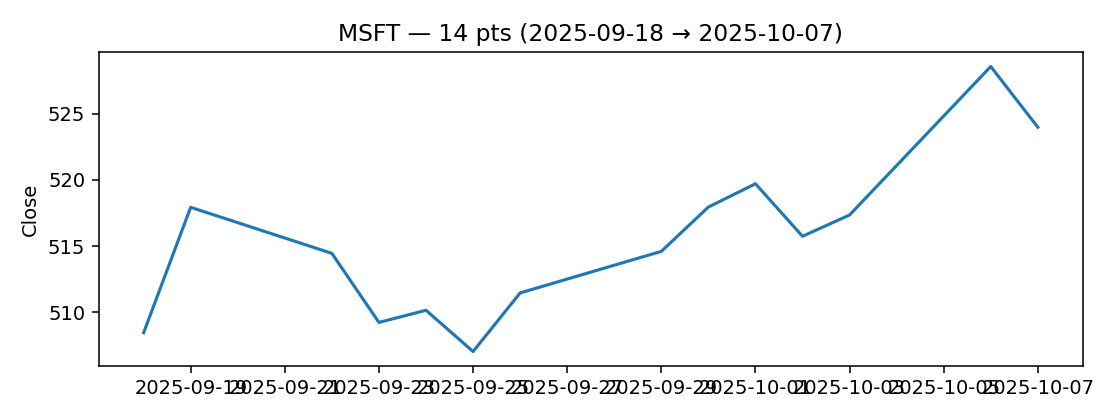
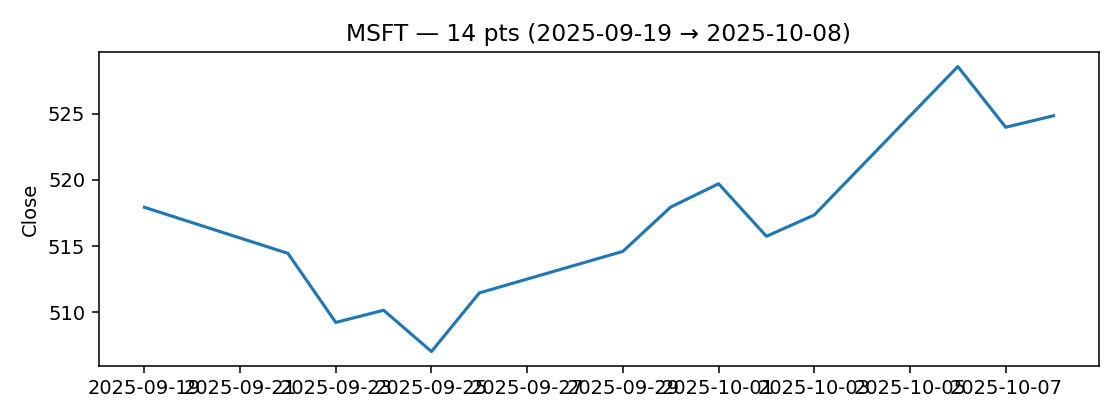
chore: update daily report 2025-10-09 08:29

diff --git a/docs/daily_report.html b/docs/daily_report.html
@@ -108,7 +108,7 @@
   <header>
     <div>
       <h1>Daily Study & News Companion</h1>
-      <div class="sub">2025-10-08 08:12 · TZ: CST</div>
+      <div class="sub">2025-10-09 08:14 · TZ: CST</div>
     </div>
     <button class="btn" id="themeBtn">🌓 Tema</button>
   </header>
@@ -150,11 +150,11 @@
           </div>
           <div class="mkt-body">
             <div class="metrics-row">
-          <div class="kv"><span>Last</span><b>221.78</b></div>
-          <div class="kv"><span>d/d</span><b class="down">-4.09%</b></div>
+          <div class="kv"><span>Last</span><b>225.22</b></div>
+          <div class="kv"><span>d/d</span><b class="down">-2.70%</b></div>
           <div class="kv"><span>Mín</span><b>218.15</b></div>
           <div class="kv"><span>Máx</span><b>231.48</b></div>
-          <div class="kv"><span>σ</span><b>4.16</b></div>
+          <div class="kv"><span>σ</span><b>3.50</b></div>
         </div>
             <div class="chart"><img src="charts/AMZN_close.png" alt="AMZN chart" loading="lazy"/></div>
           </div>
@@ -167,11 +167,11 @@
           </div>
           <div class="mkt-body">
             <div class="metrics-row">
-          <div class="kv"><span>Last</span><b>523.98</b></div>
-          <div class="kv"><span>d/d</span><b class="up">3.05%</b></div>
+          <div class="kv"><span>Last</span><b>524.85</b></div>
+          <div class="kv"><span>d/d</span><b class="up">1.34%</b></div>
           <div class="kv"><span>Mín</span><b>507.03</b></div>
           <div class="kv"><span>Máx</span><b>528.57</b></div>
-          <div class="kv"><span>σ</span><b>5.88</b></div>
+          <div class="kv"><span>σ</span><b>5.99</b></div>
         </div>
             <div class="chart"><img src="charts/MSFT_close.png" alt="MSFT chart" loading="lazy"/></div>
           </div>
@@ -184,10 +184,10 @@
           </div>
           <div class="mkt-body">
             <div class="metrics-row">
-          <div class="kv"><span>Last</span><b>185.04</b></div>
-          <div class="kv"><span>d/d</span><b class="up">4.99%</b></div>
-          <div class="kv"><span>Mín</span><b>176.24</b></div>
-          <div class="kv"><span>Máx</span><b>188.89</b></div>
+          <div class="kv"><span>Last</span><b>189.11</b></div>
+          <div class="kv"><span>d/d</span><b class="up">7.04%</b></div>
+          <div class="kv"><span>Mín</span><b>176.67</b></div>
+          <div class="kv"><span>Máx</span><b>189.11</b></div>
           <div class="kv"><span>σ</span><b>4.51</b></div>
         </div>
             <div class="chart"><img src="charts/NVDA_close.png" alt="NVDA chart" loading="lazy"/></div>
@@ -201,11 +201,11 @@
           </div>
           <div class="mkt-body">
             <div class="metrics-row">
-          <div class="kv"><span>Last</span><b>433.09</b></div>
-          <div class="kv"><span>d/d</span><b class="up">3.90%</b></div>
-          <div class="kv"><span>Mín</span><b>416.85</b></div>
+          <div class="kv"><span>Last</span><b>438.69</b></div>
+          <div class="kv"><span>d/d</span><b class="up">2.96%</b></div>
+          <div class="kv"><span>Mín</span><b>423.39</b></div>
           <div class="kv"><span>Máx</span><b>459.46</b></div>
-          <div class="kv"><span>σ</span><b>11.39</b></div>
+          <div class="kv"><span>σ</span><b>10.03</b></div>
         </div>
             <div class="chart"><img src="charts/TSLA_close.png" alt="TSLA chart" loading="lazy"/></div>
           </div>
@@ -218,11 +218,11 @@
           </div>
           <div class="mkt-body">
             <div class="metrics-row">
-          <div class="kv"><span>Last</span><b>669.12</b></div>
-          <div class="kv"><span>d/d</span><b class="up">1.04%</b></div>
+          <div class="kv"><span>Last</span><b>673.11</b></div>
+          <div class="kv"><span>d/d</span><b class="up">1.42%</b></div>
           <div class="kv"><span>Mín</span><b>658.05</b></div>
-          <div class="kv"><span>Máx</span><b>671.61</b></div>
-          <div class="kv"><span>σ</span><b>3.77</b></div>
+          <div class="kv"><span>Máx</span><b>673.11</b></div>
+          <div class="kv"><span>σ</span><b>4.16</b></div>
         </div>
             <div class="chart"><img src="charts/^GSPC_close.png" alt="^GSPC chart" loading="lazy"/></div>
           </div>
@@ -250,38 +250,38 @@
             <ul class="news-list">
               <li class="news-item" data-topic="AI">
                 <span class="dot"></span>
-                <a href="https://www.bloomberg.com/news/videos/2025-10-08/musk-s-xai-taps-nvidia-and-others-to-raise-20-billion-video" target="_blank" rel="noreferrer">Musk's xAI Taps Nvidia and Others to Raise $20 Billion</a>
-                <div class="meta">2025-10-08 13:59 · <span class="src">www.bloomberg.com</span></div>
+                <a href="https://www.bloomberg.com/news/articles/2025-10-09/google-cloud-battles-microsoft-openai-for-workplace-ai" target="_blank" rel="noreferrer">Google Cloud Battles Microsoft, OpenAI for Workplace AI</a>
+                <div class="meta">2025-10-09 12:00 · <span class="src">Davey Alba, Carmen Arroyo</span></div>
               </li>
             
               <li class="news-item" data-topic="AI">
                 <span class="dot"></span>
-                <a href="https://www.bloomberg.com/news/videos/2025-10-08/the-pulse-10-8-video" target="_blank" rel="noreferrer">Elon Musk’s xAI Plans $20 Billion Raise Backed by Nvidia for AI Project: The Pulse 10/08</a>
-                <div class="meta">2025-10-08 12:15 · <span class="src">www.bloomberg.com</span></div>
+                <a href="https://www.bloomberg.com/news/newsletters/2025-10-09/chatgpt-s-new-app-integrations-ask-a-lot-of-users" target="_blank" rel="noreferrer">ChatGPT’s New App Integrations Ask a Lot of Users</a>
+                <div class="meta">2025-10-09 11:02 · <span class="src">Natalie Lung</span></div>
               </li>
             
               <li class="news-item" data-topic="AI">
                 <span class="dot"></span>
-                <a href="https://www.bloomberg.com/news/newsletters/2025-10-08/amd-s-su-joins-the-party-with-openai-for-better-or-worse" target="_blank" rel="noreferrer">AMD’s Su Joins the Party With OpenAI for Better or Worse</a>
-                <div class="meta">2025-10-08 11:02 · <span class="src">Ian King</span></div>
+                <a href="https://www.bloomberg.com/news/articles/2025-10-09/keith-rabois-bets-on-legal-ai-tech-with-startup-spellbook" target="_blank" rel="noreferrer">Keith Rabois Bets on Legal AI Tech With Startup Spellbook</a>
+                <div class="meta">2025-10-09 11:00 · <span class="src">Lizette Chapman</span></div>
               </li>
             
               <li class="news-item" data-topic="AI">
                 <span class="dot"></span>
-                <a href="https://www.bloomberg.com/news/articles/2025-10-07/musk-s-xai-nears-20-billion-capital-raise-tied-to-nvidia-chips" target="_blank" rel="noreferrer">xAI to Raise $20 Billion After Nvidia and Others Boost Round</a>
-                <div class="meta">2025-10-07 23:11 · <span class="src">Carmen Arroyo, Edward Ludlow</span></div>
+                <a href="https://www.bloomberg.com/news/articles/2025-10-09/why-experts-are-warning-the-ai-boom-could-be-a-bubble" target="_blank" rel="noreferrer">‘I Believe It’s a Bubble’: What Some Smart People Are Saying About AI</a>
+                <div class="meta">2025-10-09 09:00 · <span class="src">Christopher Beam</span></div>
               </li>
             
               <li class="news-item" data-topic="AI">
                 <span class="dot"></span>
-                <a href="https://www.bloomberg.com/news/articles/2025-10-07/careerbuilder-job-search-site-toppled-by-ai-wraps-liquidation" target="_blank" rel="noreferrer">CareerBuilder, Job Website Toppled by AI, Wraps Liquidation</a>
-                <div class="meta">2025-10-07 20:04 · <span class="src">Steven Church</span></div>
+                <a href="https://www.bloomberg.com/news/articles/2025-10-09/ai-agent-startup-n8n-nets-2-5-billion-valuation-with-backing-from-nvidia" target="_blank" rel="noreferrer">AI Agent Startup N8n Nets $2.5 Billion Valuation With Backing From Accel, Nvidia</a>
+                <div class="meta">2025-10-09 06:06 · <span class="src">Yazhou Sun</span></div>
               </li>
             
               <li class="news-item" data-topic="AI">
                 <span class="dot"></span>
-                <a href="https://www.bloomberg.com/news/features/2025-10-07/openai-s-nvidia-amd-deals-boost-1-trillion-ai-boom-with-circular-deals" target="_blank" rel="noreferrer">OpenAI, Nvidia Fuel $1 Trillion AI Market With Web of Circular Deals</a>
-                <div class="meta">2025-10-07 20:00 · <span class="src">Emily Forgash, Agnee Ghosh</span></div>
+                <a href="https://www.bloomberg.com/news/articles/2025-10-08/china-markets-reopen-to-show-if-ai-buzz-outshines-soft-spending" target="_blank" rel="noreferrer">China Stocks Rise Post-Break as AI, Gold Outshine Tepid Spending</a>
+                <div class="meta">2025-10-08 23:00 · <span class="src">Sangmi Cha, Iris Ouyang</span></div>
               </li>
             </ul>
           </div>
@@ -291,38 +291,38 @@
             <ul class="news-list">
               <li class="news-item" data-topic="Fintech">
                 <span class="dot"></span>
-                <a href="https://www.bloomberg.com/news/videos/2025-10-08/fed-s-barr-sees-community-bank-threat-in-big-bank-deregulation" target="_blank" rel="noreferrer">Barr Sees Community Bank Threat in Big Bank Deregulation</a>
-                <div class="meta">2025-10-08 14:08 · <span class="src">www.bloomberg.com</span></div>
+                <a href="https://www.bloomberg.com/news/articles/2025-10-09/ecb-s-escriva-warns-of-unprecedented-level-of-economic-uncertainty" target="_blank" rel="noreferrer">ECB’s Escrivá Warns of Unprecedented Level of Economic Uncertainty</a>
+                <div class="meta">2025-10-09 13:28 · <span class="src">Daniel Basteiro</span></div>
               </li>
             
               <li class="news-item" data-topic="Fintech">
                 <span class="dot"></span>
-                <a href="https://www.bloomberg.com/news/articles/2025-10-08/barr-sees-big-bank-deregulation-as-threat-to-community-banks" target="_blank" rel="noreferrer">Barr Sees Big Bank Deregulation as Threat to Community Banks</a>
-                <div class="meta">2025-10-08 13:33 · <span class="src">Katanga Johnson</span></div>
+                <a href="https://www.bloomberg.com/news/articles/2025-10-09/jpmorgan-seeks-to-accelerate-push-into-payment-services-in-india" target="_blank" rel="noreferrer">JPMorgan Seeks to Accelerate Push Into Payment Services in India</a>
+                <div class="meta">2025-10-09 12:24 · <span class="src">Siddhi Nayak, Saikat Das</span></div>
               </li>
             
               <li class="news-item" data-topic="Fintech">
                 <span class="dot"></span>
-                <a href="https://www.bloomberg.com/news/articles/2025-10-08/greenland-pm-asks-eu-help-to-secure-digital-links-block-threats" target="_blank" rel="noreferrer">Greenland Prime Minister Asks EU Help to Secure Digital Links, Block Threats</a>
-                <div class="meta">2025-10-08 12:41 · <span class="src">Sara Sjolin</span></div>
+                <a href="https://www.bloomberg.com/news/articles/2025-10-09/nigerian-banks-pivot-to-lending-as-local-bond-yields-decline" target="_blank" rel="noreferrer">Nigerian Banks Pivot to Lending as Local Bond Yields Decline</a>
+                <div class="meta">2025-10-09 12:11 · <span class="src">Emele Onu</span></div>
               </li>
             
               <li class="news-item" data-topic="Fintech">
                 <span class="dot"></span>
-                <a href="https://www.ft.com/content/4080ecae-0654-4597-9596-025c373874c3" target="_blank" rel="noreferrer">SoftBank to buy ABB’s robotics unit in $5.4bn deal</a>
-                <div class="meta">2025-10-08 07:43 · <span class="src">www.ft.com</span></div>
+                <a href="https://www.bloomberg.com/news/articles/2025-10-09/ecb-officials-decided-against-protective-cut-on-inflation-risks" target="_blank" rel="noreferrer">ECB Officials Decided Against Protective Cut on Inflation Risks</a>
+                <div class="meta">2025-10-09 11:55 · <span class="src">Jana Randow, Mark Schroers, Alexander Weber</span></div>
               </li>
             
               <li class="news-item" data-topic="Fintech">
                 <span class="dot"></span>
-                <a href="https://www.ft.com/content/47331a3b-a104-4924-96b7-3af3b84288eb" target="_blank" rel="noreferrer">‘Big data’ helps HMRC increase UK tax haul by £4.6bn</a>
-                <div class="meta">2025-10-07 04:00 · <span class="src">www.ft.com</span></div>
+                <a href="https://www.bloomberg.com/news/articles/2025-10-09/romanian-central-banker-sees-stable-rates-at-least-through-march" target="_blank" rel="noreferrer">Romanian Central Banker Sees Stable Rates at Least Through March</a>
+                <div class="meta">2025-10-09 11:34 · <span class="src">Andra Timu, Irina Vilcu</span></div>
               </li>
             
               <li class="news-item" data-topic="Fintech">
                 <span class="dot"></span>
-                <a href="https://www.ft.com/content/79b53db3-3411-454c-814d-d86f3c800abd" target="_blank" rel="noreferrer">Musk names former Morgan Stanley banker as new xAI CFO</a>
-                <div class="meta">2025-10-07 03:31 · <span class="src">www.ft.com</span></div>
+                <a href="https://www.bloomberg.com/news/videos/2025-10-09/the-opening-trade-10-9-video" target="_blank" rel="noreferrer">HSBC’s $14B Hong Kong Bet, Israel & Hamas Strike Hostage Deal | The Opening Trade 10/9</a>
+                <div class="meta">2025-10-09 11:24 · <span class="src">www.bloomberg.com</span></div>
               </li>
             </ul>
           </div>
@@ -332,38 +332,38 @@
             <ul class="news-list">
               <li class="news-item" data-topic="General">
                 <span class="dot"></span>
-                <a href="https://www.bloomberg.com/news/articles/2025-10-08/soybean-harvest-kicks-off-in-us-as-farmer-challenges-mount" target="_blank" rel="noreferrer">US Soy Harvest Begins With Farmers in ‘Fight to Survive’</a>
-                <div class="meta">2025-10-08 14:01 · <span class="src">Michael Hirtzer, Erin Ailworth</span></div>
+                <a href="https://www.bloomberg.com/news/articles/2025-10-09/saudi-wealth-fund-said-to-slow-pace-of-work-on-local-share-sales" target="_blank" rel="noreferrer">Saudi Wealth Fund Said to Slow Pace of Work on Local Share Sales</a>
+                <div class="meta">2025-10-09 13:44 · <span class="src">Laura Gardner Cuesta, Christine Burke</span></div>
               </li>
             
               <li class="news-item" data-topic="General">
                 <span class="dot"></span>
-                <a href="https://www.bloomberg.com/news/articles/2025-10-08/whale-rock-rebounds-from-20-first-quarter-loss-as-stocks-rally" target="_blank" rel="noreferrer">Whale Rock Rebounds From 20% First-Quarter Loss as Stocks Rally</a>
-                <div class="meta">2025-10-08 13:57 · <span class="src">Hema Parmar</span></div>
+                <a href="https://www.bloomberg.com/news/articles/2025-10-09/netflix-expected-a-kpop-rally-tariffs-musk-got-in-the-way" target="_blank" rel="noreferrer">Netflix Expected a ‘KPop’ Rally. Elon Musk and Tariffs Got In the Way</a>
+                <div class="meta">2025-10-09 11:01 · <span class="src">Ryan Vlastelica</span></div>
               </li>
             
               <li class="news-item" data-topic="General">
                 <span class="dot"></span>
-                <a href="https://www.bloomberg.com/news/articles/2025-10-08/cenovus-sweetens-offer-for-meg-in-canada-oil-takeover-battle" target="_blank" rel="noreferrer">Cenovus Sweetens Offer for MEG in Canada Oil Takeover Battle</a>
-                <div class="meta">2025-10-08 11:06 · <span class="src">Derek Decloet, Robert Tuttle</span></div>
+                <a href="https://www.bloomberg.com/news/articles/2025-10-09/lagging-homebuilder-stocks-xhb-face-new-worry-from-bill-pulte-s-ire" target="_blank" rel="noreferrer">Lagging Builder Stocks Face New Worry From Bill Pulte’s Ire</a>
+                <div class="meta">2025-10-09 11:00 · <span class="src">Felice Maranz</span></div>
               </li>
             
               <li class="news-item" data-topic="General">
                 <span class="dot"></span>
-                <a href="https://www.bloomberg.com/news/articles/2025-10-08/dollar-tiptoes-toward-two-month-high-as-global-fiscal-woes-mount" target="_blank" rel="noreferrer">Dollar Closes in on Two-Month High as Global Fiscal Woes Mount</a>
-                <div class="meta">2025-10-08 04:56 · <span class="src">David Finnerty, Masaki Kondo</span></div>
+                <a href="https://www.bloomberg.com/news/articles/2025-10-09/prosthetics-maker-ottobock-s-shares-rise-11-in-frankfurt-debut" target="_blank" rel="noreferrer">Ottobock Shares Rise After Biggest German IPO of 2025</a>
+                <div class="meta">2025-10-09 07:28 · <span class="src">Pablo Mayo Cerqueiro, Marilen Martin, Arno Schuetze</span></div>
               </li>
             
               <li class="news-item" data-topic="General">
                 <span class="dot"></span>
-                <a href="https://www.bloomberg.com/news/articles/2025-10-08/gold-soars-past-4-000-as-us-shutdown-adds-fuel-to-record-rally" target="_blank" rel="noreferrer">Gold Tops $4,000 for First Time Fueled by US Shutdown</a>
-                <div class="meta">2025-10-08 01:59 · <span class="src">Jack Ryan, Yvonne Yue Li, Sybilla Gross</span></div>
+                <a href="https://www.bloomberg.com/news/articles/2025-10-08/stock-market-today-dow-s-p-live-updates" target="_blank" rel="noreferrer">Wall Street Rally Stalls Amid Signs of Overheating: Markets Wrap</a>
+                <div class="meta">2025-10-08 21:58 · <span class="src">Rita Nazareth</span></div>
               </li>
             
               <li class="news-item" data-topic="General">
                 <span class="dot"></span>
-                <a href="https://www.bloomberg.com/news/videos/2025-10-07/pebina-keyera-altagas-on-canada-s-energy-future-video" target="_blank" rel="noreferrer">Pembina, Keyera, AltaGas on Canada's Energy Future</a>
-                <div class="meta">2025-10-07 14:57 · <span class="src">www.bloomberg.com</span></div>
+                <a href="https://www.bloomberg.com/news/articles/2025-10-08/winklevoss-backed-crypto-company-eyes-expansion-in-brazil" target="_blank" rel="noreferrer">Winklevoss-Backed Crypto Company Eyes Expansion in Brazil</a>
+                <div class="meta">2025-10-08 19:20 · <span class="src">Leda Alvim</span></div>
               </li>
             </ul>
           </div>
@@ -373,38 +373,38 @@
             <ul class="news-list">
               <li class="news-item" data-topic="Machine Learning">
                 <span class="dot"></span>
-                <a href="https://www.bloomberg.com/news/articles/2025-10-08/tap-ceo-sees-airline-joining-major-aviation-group-soon" target="_blank" rel="noreferrer">TAP CEO Sees Airline Joining Major Aviation Group ‘Soon’</a>
-                <div class="meta">2025-10-08 13:01 · <span class="src">Kate Duffy, Henrique Almeida</span></div>
+                <a href="https://www.bloomberg.com/news/articles/2025-10-09/s-p-500-fluctuates-as-traders-weigh-earnings-from-delta-pepsico" target="_blank" rel="noreferrer">S&amp;P 500 Fluctuates as Traders Weigh Earnings From Delta, PepsiCo</a>
+                <div class="meta">2025-10-09 13:52 · <span class="src">Jess Menton</span></div>
               </li>
             
               <li class="news-item" data-topic="Machine Learning">
                 <span class="dot"></span>
-                <a href="https://www.bloomberg.com/news/articles/2025-10-08/jefferies-has-161-million-at-risk-in-first-brands-collapse" target="_blank" rel="noreferrer">Jefferies Fund Has $715 Million in First Brands’ Trade Debt</a>
-                <div class="meta">2025-10-08 11:44 · <span class="src">Katherine Doherty, Irene Garcia Perez</span></div>
+                <a href="https://www.bloomberg.com/news/articles/2025-10-09/chinese-regulators-unveil-measures-to-rein-in-price-wars" target="_blank" rel="noreferrer">Chinese Regulators Unveil Measures to Rein in Price Wars</a>
+                <div class="meta">2025-10-09 13:09 · <span class="src">Foster Wong</span></div>
               </li>
             
               <li class="news-item" data-topic="Machine Learning">
                 <span class="dot"></span>
-                <a href="https://www.bloomberg.com/news/articles/2025-10-08/goldman-s-oppenheimer-dismisses-bubble-fears-in-us-tech-stocks" target="_blank" rel="noreferrer">Goldman’s Oppenheimer Dismisses Bubble Fears in US Tech Stocks</a>
-                <div class="meta">2025-10-08 08:54 · <span class="src">Sagarika Jaisinghani</span></div>
+                <a href="https://www.bloomberg.com/news/articles/2025-10-09/1password-founders-sell-utah-jazz-owner-ryan-smith-s-vc-fund-a-75-million-stake" target="_blank" rel="noreferrer">1Password Founders Sell a $75 Million Stake to Utah Jazz Owner’s VC Fund</a>
+                <div class="meta">2025-10-09 13:00 · <span class="src">Jeff Stone</span></div>
               </li>
             
               <li class="news-item" data-topic="Machine Learning">
                 <span class="dot"></span>
-                <a href="https://www.bloomberg.com/news/videos/2025-10-07/bloomberg-tech-10-7-2025-video" target="_blank" rel="noreferrer">Dell Boosts Forecast Through 2030 Off AI Boom | Bloomberg Tech 10/7/2025</a>
-                <div class="meta">2025-10-07 21:41 · <span class="src">www.bloomberg.com</span></div>
+                <a href="https://www.bloomberg.com/news/videos/2025-10-09/earnings-in-focus-in-absence-of-data-herr-video" target="_blank" rel="noreferrer">Earnings in Focus in Absence of Data: Herr</a>
+                <div class="meta">2025-10-09 12:40 · <span class="src">www.bloomberg.com</span></div>
               </li>
             
               <li class="news-item" data-topic="Machine Learning">
                 <span class="dot"></span>
-                <a href="https://www.bloomberg.com/news/articles/2025-10-07/starlink-rival-ast-spacemobile-asts-gets-rare-sell-as-lead-narrows" target="_blank" rel="noreferrer">Starlink Rival AST SpaceMobile Gets Rare Sell Amid 254% Run</a>
-                <div class="meta">2025-10-07 16:53 · <span class="src">Joel Leon</span></div>
+                <a href="https://www.bloomberg.com/news/videos/2025-10-09/the-pulse-10-09-video" target="_blank" rel="noreferrer">Gaza Breakthrough: Israel, Hamas Agree to Hostage Deal: The Pulse 10/09</a>
+                <div class="meta">2025-10-09 11:57 · <span class="src">www.bloomberg.com</span></div>
               </li>
             
               <li class="news-item" data-topic="Machine Learning">
                 <span class="dot"></span>
-                <a href="https://www.bloomberg.com/news/articles/2025-10-07/marlin-said-to-weigh-2-billion-sale-of-swedish-tech-firm-medius" target="_blank" rel="noreferrer">Marlin Said to Weigh $2 Billion Sale of Swedish Tech Firm Medius</a>
-                <div class="meta">2025-10-07 14:08 · <span class="src">Pamela Barbaglia, Vinicy Chan</span></div>
+                <a href="https://www.bloomberg.com/news/articles/2025-10-09/tata-consultancy-second-quarter-profit-misses-estimates" target="_blank" rel="noreferrer">Tata Consultancy Second-Quarter Profit Misses Estimates</a>
+                <div class="meta">2025-10-09 10:38 · <span class="src">Sankalp Phartiyal</span></div>
               </li>
             </ul>
           </div>
@@ -414,7 +414,7 @@
     </main>
   </div>
 
-  <footer>Generado localmente · 2025-10-08 08:12</footer>
+  <footer>Generado localmente · 2025-10-09 08:14</footer>
 
   <script>
     'use strict';
